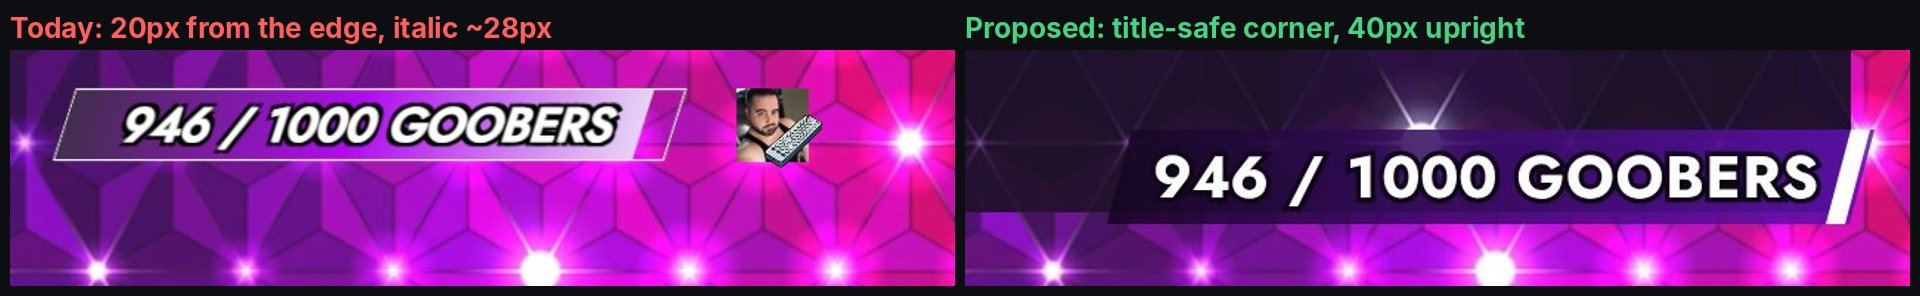
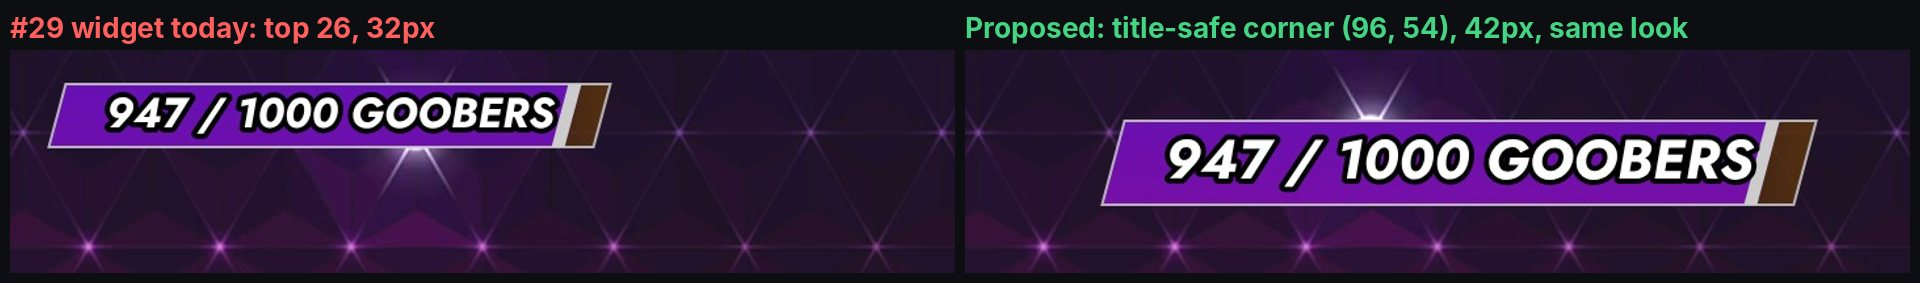
docs(design): italic exception for the top-left widgets, toast grow-to-fit link, new audit images
- TYPE-4: the goal bar + notifications toast pair keeps AJ's "A Creative"
  italic (#27); nothing else borrows it
- TYPE-6: link the notifications grow-to-fit row in MOTION.md (#31)
- goal-bar.jpg re-shot from the real followers scene (#29); brb.jpg shows
  both BRB directions
- Learnings: read each OBS browser source URL in audits (vtuber#1)

Claude-Session: https://claude.ai/code/session_01Jc2Vj5hE2S5k8CZ6sLe5BR

diff --git a/docs/DESIGN.md b/docs/DESIGN.md
@@ -179,12 +179,17 @@ canvas, with what a viewer sees:
   plate needs only the plate.
   ![Text over video: do and don't](design/contrast.jpg)
 - **TYPE-4** Text stands upright. The slant belongs to containers; no
-  italic or skewed type (the goal bar's italic is the one to fix).
+  italic or skewed type. One exception: the top-left widget pair (the
+  follower goal bar and the notifications toast that grows out of it) is
+  Jost 700 italic, the "A Creative" look AJ picked in #27. The two stay
+  matching, and nothing else borrows the italic.
 - **TYPE-5** Counters use tabular figures (`font-variant-numeric:
   tabular-nums`) so a changing digit doesn't shift its neighbours.
 - **TYPE-6** One line by preference, two at most, about 28 characters a
   line. Long text shrinks, then wraps, then ellipses, in that order: the
-  rule and its 75% floor live in [MOTION.md](MOTION.md).
+  rule and its 75% floor live in [MOTION.md](MOTION.md). The notifications
+  toast is the exception: its bar grows to fit the line and the text stays
+  still (MOTION.md Learnings, 2026-10-28, #31).
 - **TYPE-7** (target) Fonts are bundled into the single-file build, never fetched at
   runtime. A browser source that loads before Google Fonts answers, or
   offline, falls back to Arial for the whole alert.

diff --git a/docs/roles/design-system.md b/docs/roles/design-system.md
@@ -91,3 +91,4 @@ project memory (`MEMORY.md`).
 | 2026-10-28 | Judge legibility at the size viewers get, not the 1080p canvas: 29px text is 19px on a 720p stream and 6px on a phone in portrait | Type-scale figure, `docs/design/type-scale.jpg` | All text | active |
 | 2026-10-28 | Harness frames miss what OBS adds on top: live captures showed the Pride Guild badge drawn over alerts and the Starting text outside title-safe, neither visible in a harness render | Defiant captures 2026-10-28, audit | Audits | active |
 | 2026-10-28 | Measure contrast on the palette after the 0.8 brightness multiplier: the scenes apply it to HSL lightness (`shadeStops()`), not RGB, and the two differ by up to 0.5:1 on the orange stops (stop 5: 3.2:1, not 3.6) | Code review on PR #30 | Colour rules | active |
+| 2026-10-28 | A control UI that sits behind a debug flag can still reach viewers: OBS loaded the vtuber with `?debug`, so its panel was on the program. In an audit, read each browser source's URL, not only the scene code | Defiant capture and the OBS source URL, vtuber#1 | Audits | active |
